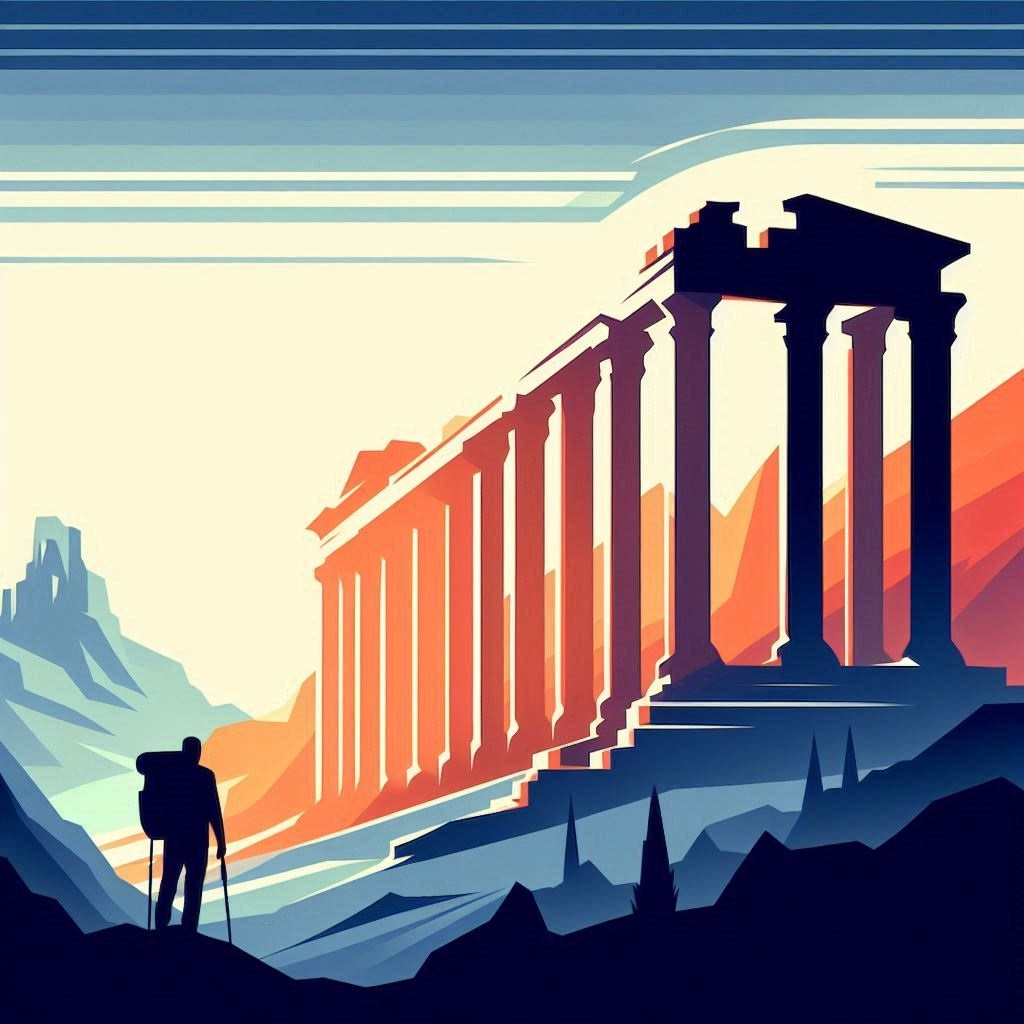
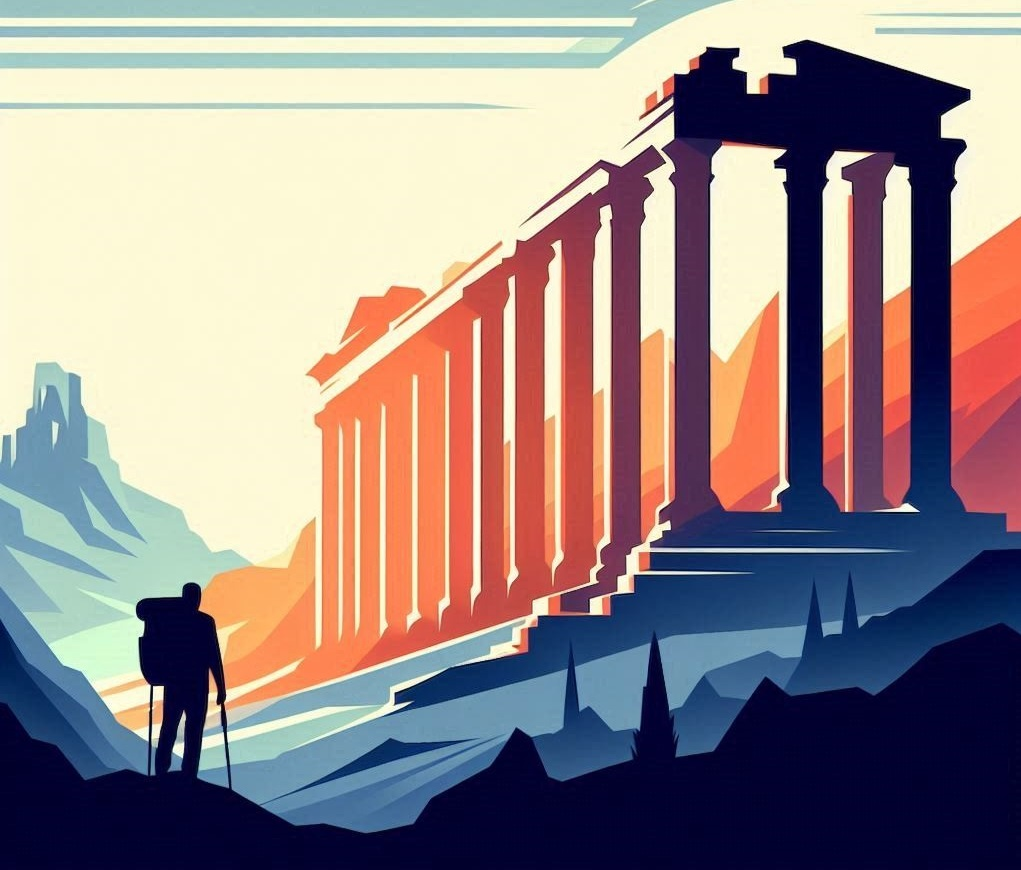
så

diff --git a/src/routes/+page.svelte b/src/routes/+page.svelte
@@ -43,7 +43,7 @@
 {#if !user}
 
   <!-- Background image section using Tailwind CSS -->
-<div class="bg-cover bg-center bg-no-repeat h-[120vh]" style="background-image: url('/back.jpeg')">
+<div class="bg-cover bg-center bg-no-repeat h-[110vh]" style="background-image: url('/back.jpeg')">
   <div class="flex items-center justify-center h-full bg-black bg-opacity-50">
     <div class="text-center text-white p-4'">
       <h1 class="text-4xl font-bold">Complete tours and learn a language</h1>
